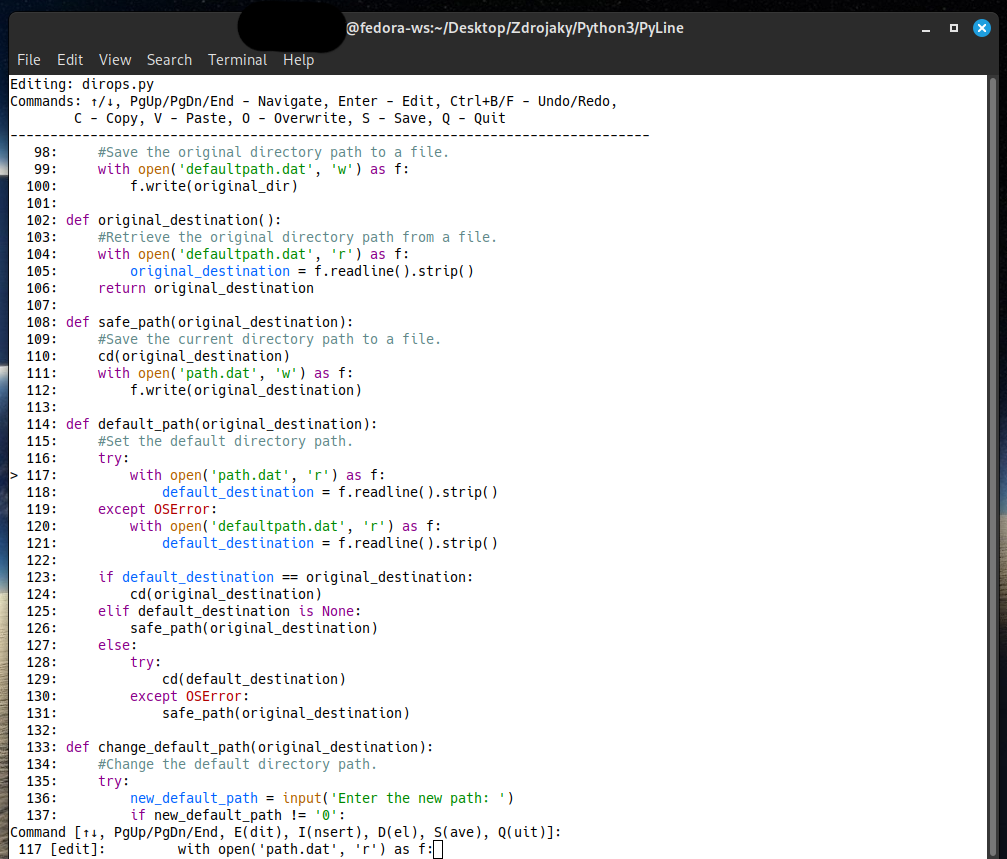
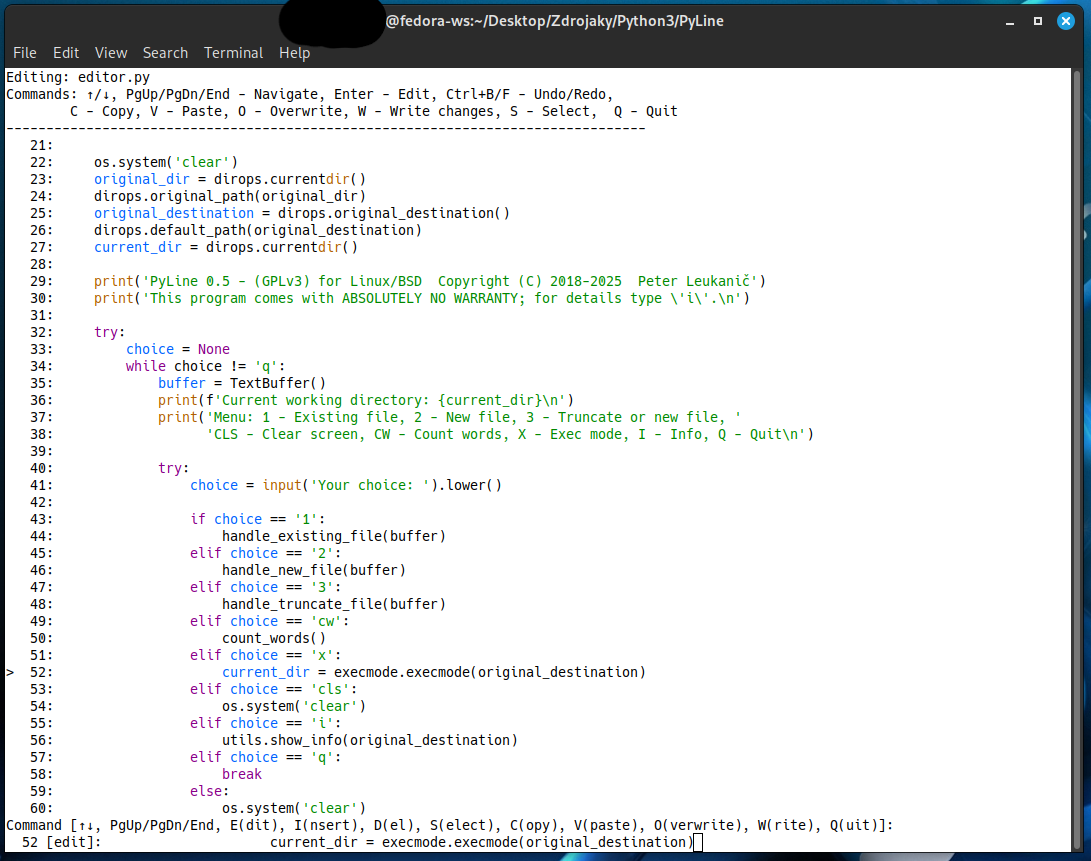
Version 0.6:
- Introduction of a line selection tool, now multiline copy/paste possible within the editor
- Small change, instead of s for save, now w for write, to change file on disk

Changed region(s): [[0.0, 0.0, 1.0, 1.0], [0.4002, 0.3935, 0.431, 0.4237]]

diff --git a/text_buffer.py b/text_buffer.py
@@ -1,5 +1,5 @@
 #----------------------------------------------------------------
-# PyLine 0.5 - Line editor (GPLv3)
+# PyLine 0.6 - Line editor (GPLv3)
 # Copyright (C) 2018-2025 Peter Leukanič
 # License: GNU GPL v3+ <https://www.gnu.org/licenses/gpl-3.0.txt>
 # This is free software with NO WARRANTY.
@@ -32,6 +32,9 @@ class TextBuffer:
         self.syntax_highlighter = SyntaxHighlighter()
         self._init_color_support()
         self.paste_buffer = PasteBuffer()
+        self.selection_start = None  # Line number where selection starts
+        self.selection_end = None    # Line number where selection ends
+        self.in_selection_mode = False  # Whether we're in selection mode
 
     def _init_color_support(self):
         #Initialize color support with more thorough checks
@@ -99,6 +102,49 @@ class TextBuffer:
         self.undo_stack.append(command)
         self.dirty = True
 
+    def start_selection(self):
+        """Start selection at current line"""
+        self.selection_start = self.current_line
+        self.in_selection_mode = True
+        self._show_status_message(f"Selection started at line {self.current_line + 1}")
+
+    def end_selection(self):
+        """End selection at current line"""
+        if not self.in_selection_mode:
+            self._show_status_message("No selection started - use 's' first")
+            return
+            
+        self.selection_end = self.current_line
+        self._show_status_message(f"Selection ended at line {self.current_line + 1}")
+
+    def clear_selection(self):
+        """Clear current selection"""
+        self.selection_start = None
+        self.selection_end = None
+        self.in_selection_mode = False
+
+    def copy_selection(self):
+        """Copy selected lines to both paste buffer and system clipboard"""
+        if self.selection_start is None or self.selection_end is None:
+            self._show_status_message("No selection to copy - use 's' to start/end selection")
+            return False
+        
+        # Ensure start is before end
+        start = min(self.selection_start, self.selection_end)
+        end = max(self.selection_start, self.selection_end)
+        
+        # Get the selected lines
+        selected_lines = self.lines[start:end+1]
+        text_to_copy = '\n'.join(selected_lines)
+        
+        # Copy  system clipboard
+        if self.paste_buffer.copy_to_clipboard(text_to_copy):
+            self._show_status_message(f"Copied {end-start+1} lines to clipboard.")
+        
+        # Clear selection after copy
+        self.clear_selection()
+        return True
+    
     def _show_status_message(self, message):
         #Helper method to display status messages consistently.
         print(f"\n{message}", end='')
@@ -134,17 +180,18 @@ class TextBuffer:
             return self.paste_buffer.paste_over(self)
 
     def paste_from_clipboard(self, mode='insert'):
-        #Paste from system clipboard with proper formatting
+        """Paste from system clipboard with proper formatting"""
         if not self.paste_buffer.load_from_clipboard():
             self._show_status_message("Clipboard empty or inaccessible")
-            return
+            return False
         
         if mode == 'insert':
             lines_pasted = self.paste_buffer.paste_into(self)
         else:
             lines_pasted = self.paste_buffer.paste_over(self)
             
-            self._show_status_message(f"Pasted {lines_pasted} lines")
+        self._show_status_message(f"Pasted {lines_pasted} lines from clipboard")
+        return True
             
     def load_file(self, filename):
         # Load file contents into buffer
@@ -183,21 +230,29 @@ class TextBuffer:
         # Print header with forced color reset
         print(f"\033[0mEditing: {self.filename or 'New file'}")
         print("""\033[0mCommands: ↑/↓, PgUp/PgDn/End - Navigate, Enter - Edit, Ctrl+B/F - Undo/Redo,
-        C - Copy, V - Paste, O - Overwrite, S - Save, Q - Quit""")
+        C - Copy, V - Paste, O - Overwrite lines, W - Write changes, S - Select,  Q - Quit""")
         print("\033[0m" + "-" * 80)  # Reset before line
 
         for idx in range(self.display_start,
                          min(self.display_start + self.display_lines, len(self.lines))):
             line_num = idx + 1
-            prefix = ">" if idx == self.current_line else " "
+            # Determine prefix based on selection and current line
+            if (self.selection_start is not None and self.selection_end is not None and 
+                idx >= min(self.selection_start, self.selection_end) and 
+                idx <= max(self.selection_start, self.selection_end)):
+                prefix = "\033[1;31m=\033[0m"  # Bold red =
+            elif idx == self.current_line:
+                prefix = ">"
+            else:
+                prefix = " "
+                
             line_text = self.lines[idx]
-
+                
             if self.filename and self.filename.endswith('.py'):
                 line_text = self._highlight_python(line_text)
-
-            # Ensure RESET at end of each line
+                    
             print(f"\033[0m{prefix}{line_num:4d}: {line_text}\033[0m")
-
+                    
         sys.stdout.flush()
 
     def navigate(self, direction):
@@ -320,7 +375,7 @@ class TextBuffer:
         while True:
             self.display()
             try:
-                sys.stdout.write("Command [↑↓, PgUp/PgDn/End, E(dit), I(nsert), D(el), S(ave), Q(uit)]: ")
+                sys.stdout.write("Command [↑↓, PgUp/PgDn/End, E(dit), I(nsert), D(el), S(elect), C(opy), V(paste), O(verwrite), W(rite), Q(uit)]: ")
                 sys.stdout.flush()
 
                 cmd = self.get_key_input()
@@ -385,17 +440,41 @@ class TextBuffer:
                     self.edit_current_line()
                 elif cmd == 'i':
                     self.insert_line()
+                elif cmd == 's':  # Start/end selection
+                    if not self.in_selection_mode:
+                        self.start_selection()
+                    else:
+                        self.end_selection()
                 elif cmd == 'c':  # Copy
-                    self.copy_to_clipboard()
+                    if self.selection_start is not None and self.selection_end is not None:
+                        self.copy_selection()
+                    else:
+                        if self.copy_to_clipboard():
+                            self._show_status_message("Copied current line to clipboard")
                 elif cmd == 'v':  # Paste insert mode
-                    self.paste_from_clipboard(mode='insert')
+                    # Try internal buffer first, then clipboard
+                    if hasattr(self, 'paste_buffer') and self.paste_buffer.buffer:
+                        lines_pasted = self.paste_buffer.paste_into(self)
+                        self._show_status_message(f"Pasted {lines_pasted} lines from buffer")
+                    elif self.paste_from_clipboard(mode='insert'):
+                        pass  # Message already shown by paste_from_clipboard
+                    else:
+                        self._show_status_message("Nothing to paste - copy first")
+                        
                 elif cmd == 'o':  # Paste overwrite mode
-                    self.paste_from_clipboard(mode='overwrite')
+                    # Try internal buffer first, then clipboard
+                    if hasattr(self, 'paste_buffer') and self.paste_buffer.buffer:
+                        lines_pasted = self.paste_buffer.paste_over(self)
+                        self._show_status_message(f"Overwrote with {lines_pasted} lines from buffer")
+                    elif self.paste_from_clipboard(mode='overwrite'):
+                        pass  # Message already shown by paste_from_clipboard
+                    else:
+                        self._show_status_message("Nothing to paste - copy first")
                 elif cmd == 'd':
                     self.delete_line()
-                elif cmd == 's':
+                elif cmd == 'w':
                     if self.save():
-                        print("File saved.")
+                        print("Changes written.")
                         self.edit_history.clear()
                     else:
                         print("Error saving file!")

diff --git a/info.py b/info.py
@@ -1,5 +1,5 @@
 #----------------------------------------------------------------
-# PyLine 0.5 - Line editor (GPLv3)
+# PyLine 0.6 - Line editor (GPLv3)
 # Copyright (C) 2018-2025 Peter Leukanič
 # License: GNU GPL v3+ <https://www.gnu.org/licenses/gpl-3.0.txt>
 # This is free software with NO WARRANTY.
@@ -9,7 +9,7 @@ import os
 
 def print_info():
     print('\n        ####################################################################')
-    print('        # PyLine 0.5 for Linux/BSD - Command-line text editor in Python3.  #')
+    print('        # PyLine 0.6 for Linux/BSD - Command-line text editor in Python3.  #')
     print('        #                Created by Peter Leukanič 2018-2025.              #')
     print('        #               This program is under GNU GPL v3 License.          #')
     print('        #                  Feel free to distribute and modify.             #')

diff --git a/editor.py b/editor.py
@@ -1,7 +1,7 @@
 #!/usr/bin/env python3
 
 #----------------------------------------------------------------
-# PyLine 0.5 - Line editor (GPLv3)
+# PyLine 0.6 - Line editor (GPLv3)
 # Copyright (C) 2018-2025 Peter Leukanič
 # License: GNU GPL v3+ <https://www.gnu.org/licenses/gpl-3.0.txt>
 # This is free software with NO WARRANTY.

diff --git a/dirops.py b/dirops.py
@@ -1,5 +1,5 @@
 #----------------------------------------------------------------
-# PyLine 0.5 - Line editor (GPLv3)
+# PyLine 0.6 - Line editor (GPLv3)
 # Copyright (C) 2018-2025 Peter Leukanič
 # License: GNU GPL v3+ <https://www.gnu.org/licenses/gpl-3.0.txt>
 # This is free software with NO WARRANTY.

diff --git a/edit_commands.py b/edit_commands.py
@@ -1,5 +1,5 @@
 #----------------------------------------------------------------
-# PyLine 0.5 - Line editor (GPLv3)
+# PyLine 0.6 - Line editor (GPLv3)
 # Copyright (C) 2018-2025 Peter Leukanič
 # License: GNU GPL v3+ <https://www.gnu.org/licenses/gpl-3.0.txt>
 # This is free software with NO WARRANTY.

diff --git a/execmode.py b/execmode.py
@@ -1,5 +1,5 @@
 #----------------------------------------------------------------
-# PyLine 0.5 - Line editor (GPLv3)
+# PyLine 0.6 - Line editor (GPLv3)
 # Copyright (C) 2018-2025 Peter Leukanič
 # License: GNU GPL v3+ <https://www.gnu.org/licenses/gpl-3.0.txt>
 # This is free software with NO WARRANTY.

diff --git a/paste_buffer.py b/paste_buffer.py
@@ -1,5 +1,5 @@
 #----------------------------------------------------------------
-# PyLine 0.5 - Line editor (GPLv3)
+# PyLine 0.6 - Line editor (GPLv3)
 # Copyright (C) 2018-2025 Peter Leukanič
 # License: GNU GPL v3+ <https://www.gnu.org/licenses/gpl-3.0.txt>
 # This is free software with NO WARRANTY.

diff --git a/syntax_highlighter.py b/syntax_highlighter.py
@@ -1,5 +1,5 @@
 #----------------------------------------------------------------
-# PyLine 0.5 - Line editor (GPLv3)
+# PyLine 0.6 - Line editor (GPLv3)
 # Copyright (C) 2018-2025 Peter Leukanič
 # License: GNU GPL v3+ <https://www.gnu.org/licenses/gpl-3.0.txt>
 # This is free software with NO WARRANTY.

diff --git a/utils.py b/utils.py
@@ -1,5 +1,5 @@
 #----------------------------------------------------------------
-# PyLine 0.5 - Line editor (GPLv3)
+# PyLine 0.6 - Line editor (GPLv3)
 # Copyright (C) 2018-2025 Peter Leukanič
 # License: GNU GPL v3+ <https://www.gnu.org/licenses/gpl-3.0.txt>
 # This is free software with NO WARRANTY.

diff --git a/README.md b/README.md
@@ -22,6 +22,7 @@ PyLine is a minimalist command-line text editor designed for Linux/BSD systems, 
   - Preserves existing text when modifying lines
   - Insert/delete line operations
   - Undo/Redo changes (history limit set to 120)
+  - Multi line text selection
   - Copy and Paste text
   - Syntax highlighting for Python
 - **File Browser**:
@@ -73,8 +74,9 @@ chmod +x editor.py
 |`c`|Copy current line|
 |`p`|Paste from clipboard|
 |`o`|Overwrite lines|
-|`s`|Save file|
+|`s`|Start / End of selection|
 |`q`|Quit editor|
+|`w`|Write changes|
 |`Ctrl+D` / `End`|Jump to end of file|
 
 ### File Management Mode
